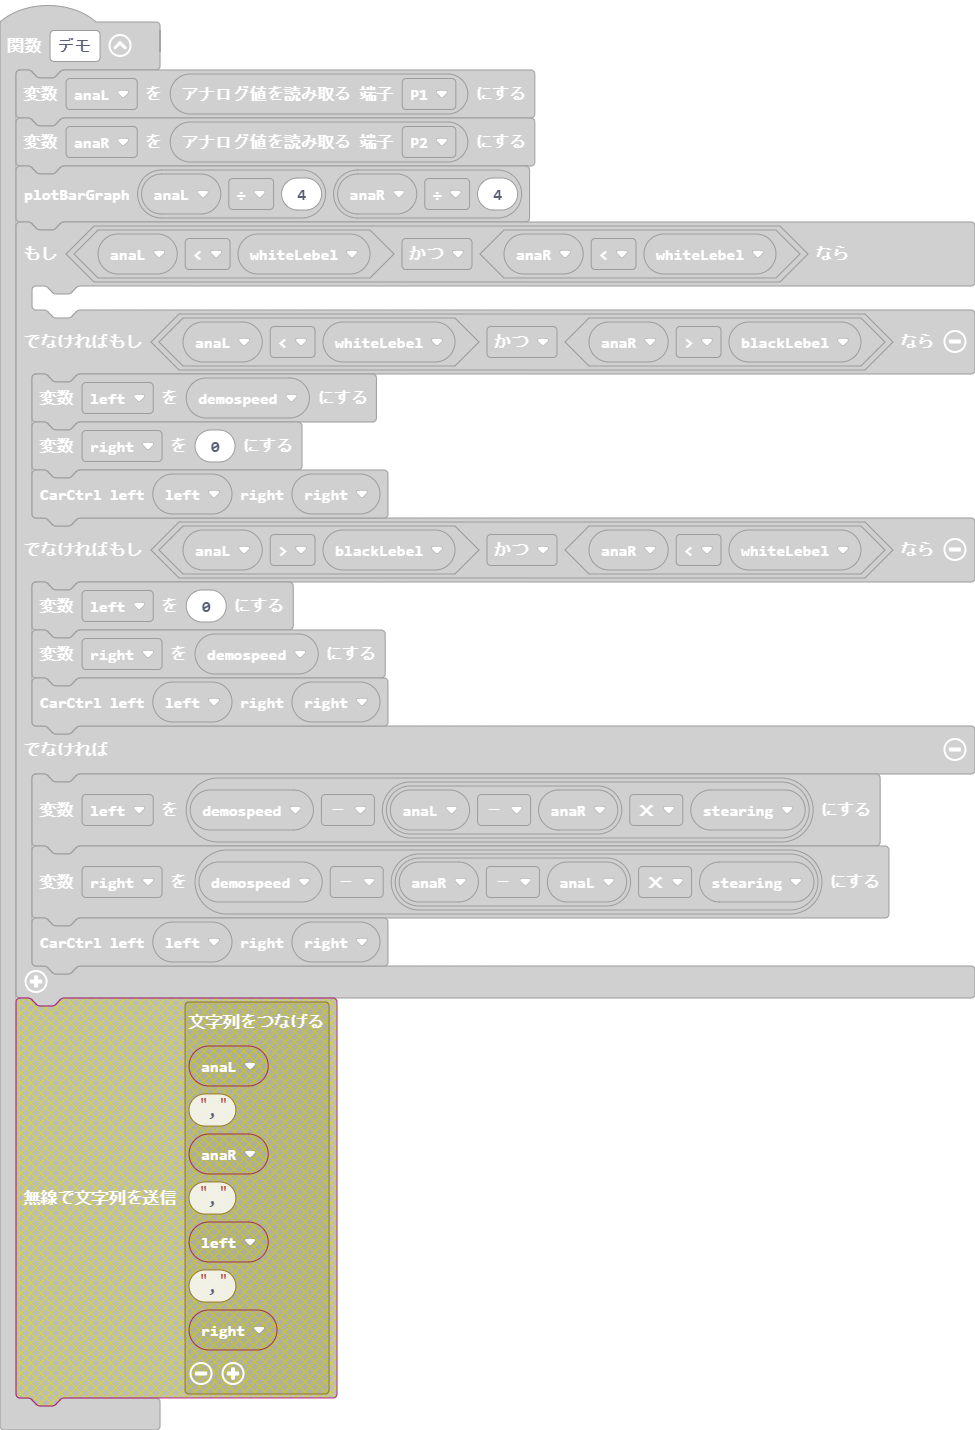
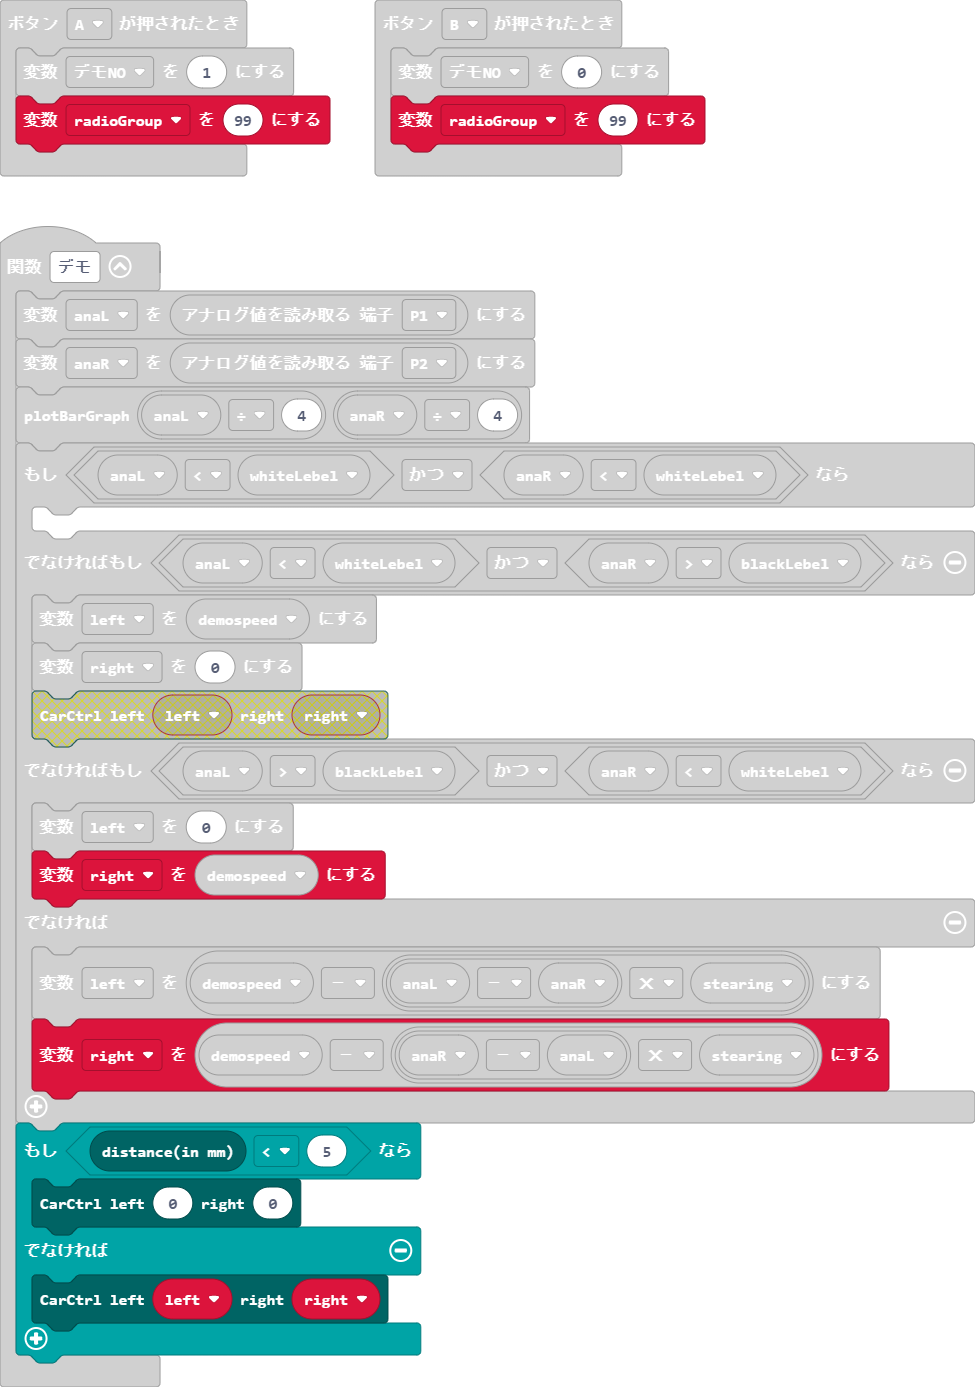
更新 main.blocks, main.ts

diff --git a/main.ts b/main.ts
@@ -7,14 +7,16 @@ function デモ () {
     } else if (anaL < whiteLebel && anaR > blackLebel) {
         left = demospeed
         right = 0
-        porocar.carCtrl(left, right)
     } else if (anaL > blackLebel && anaR < whiteLebel) {
         left = 0
         right = demospeed
-        porocar.carCtrl(left, right)
     } else {
         left = demospeed - (anaL - anaR) * stearing
         right = demospeed - (anaR - anaL) * stearing
+    }
+    if (porocar.getDistance() < 5) {
+        porocar.carCtrl(0, 0)
+    } else {
         porocar.carCtrl(left, right)
     }
 }
@@ -37,12 +39,14 @@ radio.onReceivedNumber(function (receivedNumber) {
 })
 input.onButtonPressed(Button.A, function () {
     デモNO = 1
+    radioGroup = 99
 })
 radio.onReceivedString(function (receivedString) {
     saveString = receivedString
 })
 input.onButtonPressed(Button.B, function () {
     デモNO = 0
+    radioGroup = 99
 })
 let y = 0
 let x = 0
